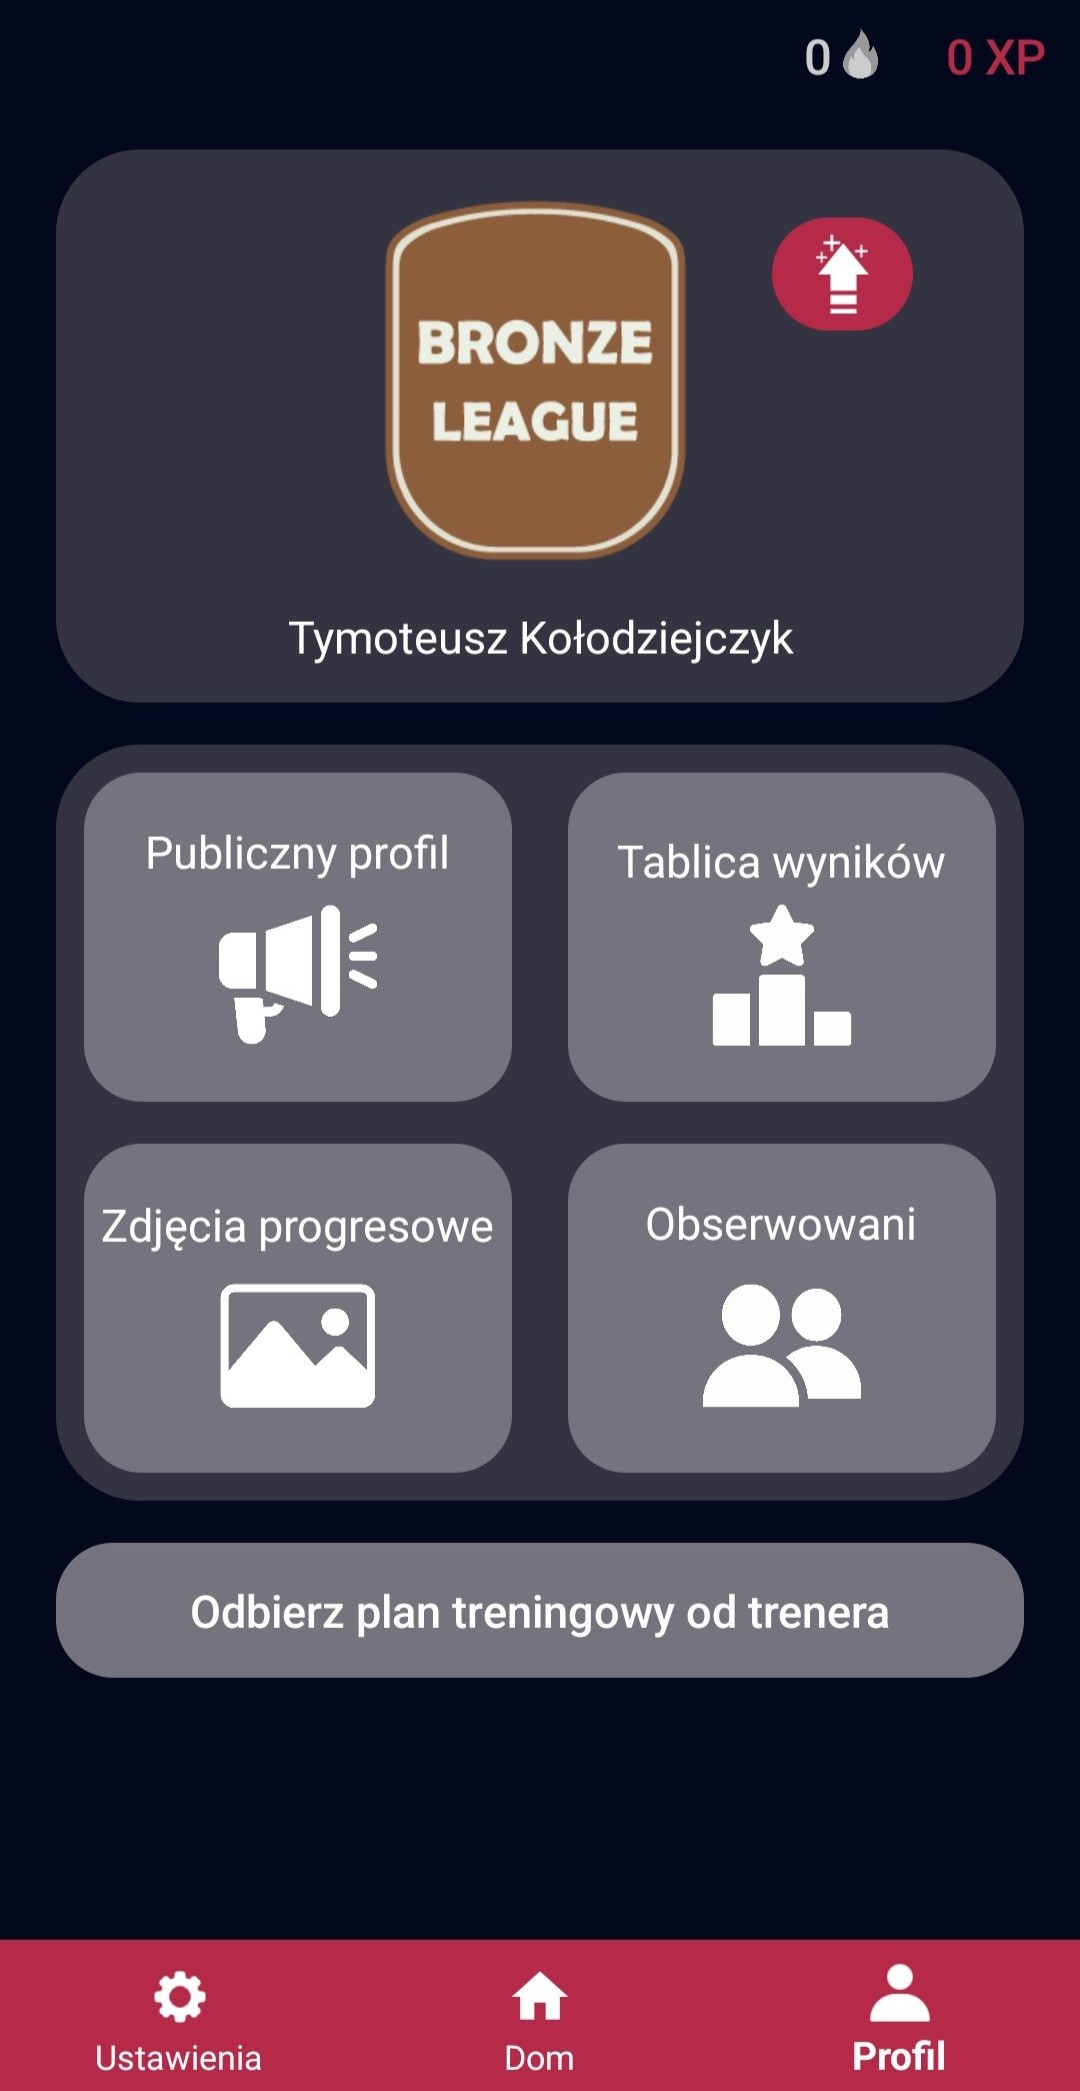
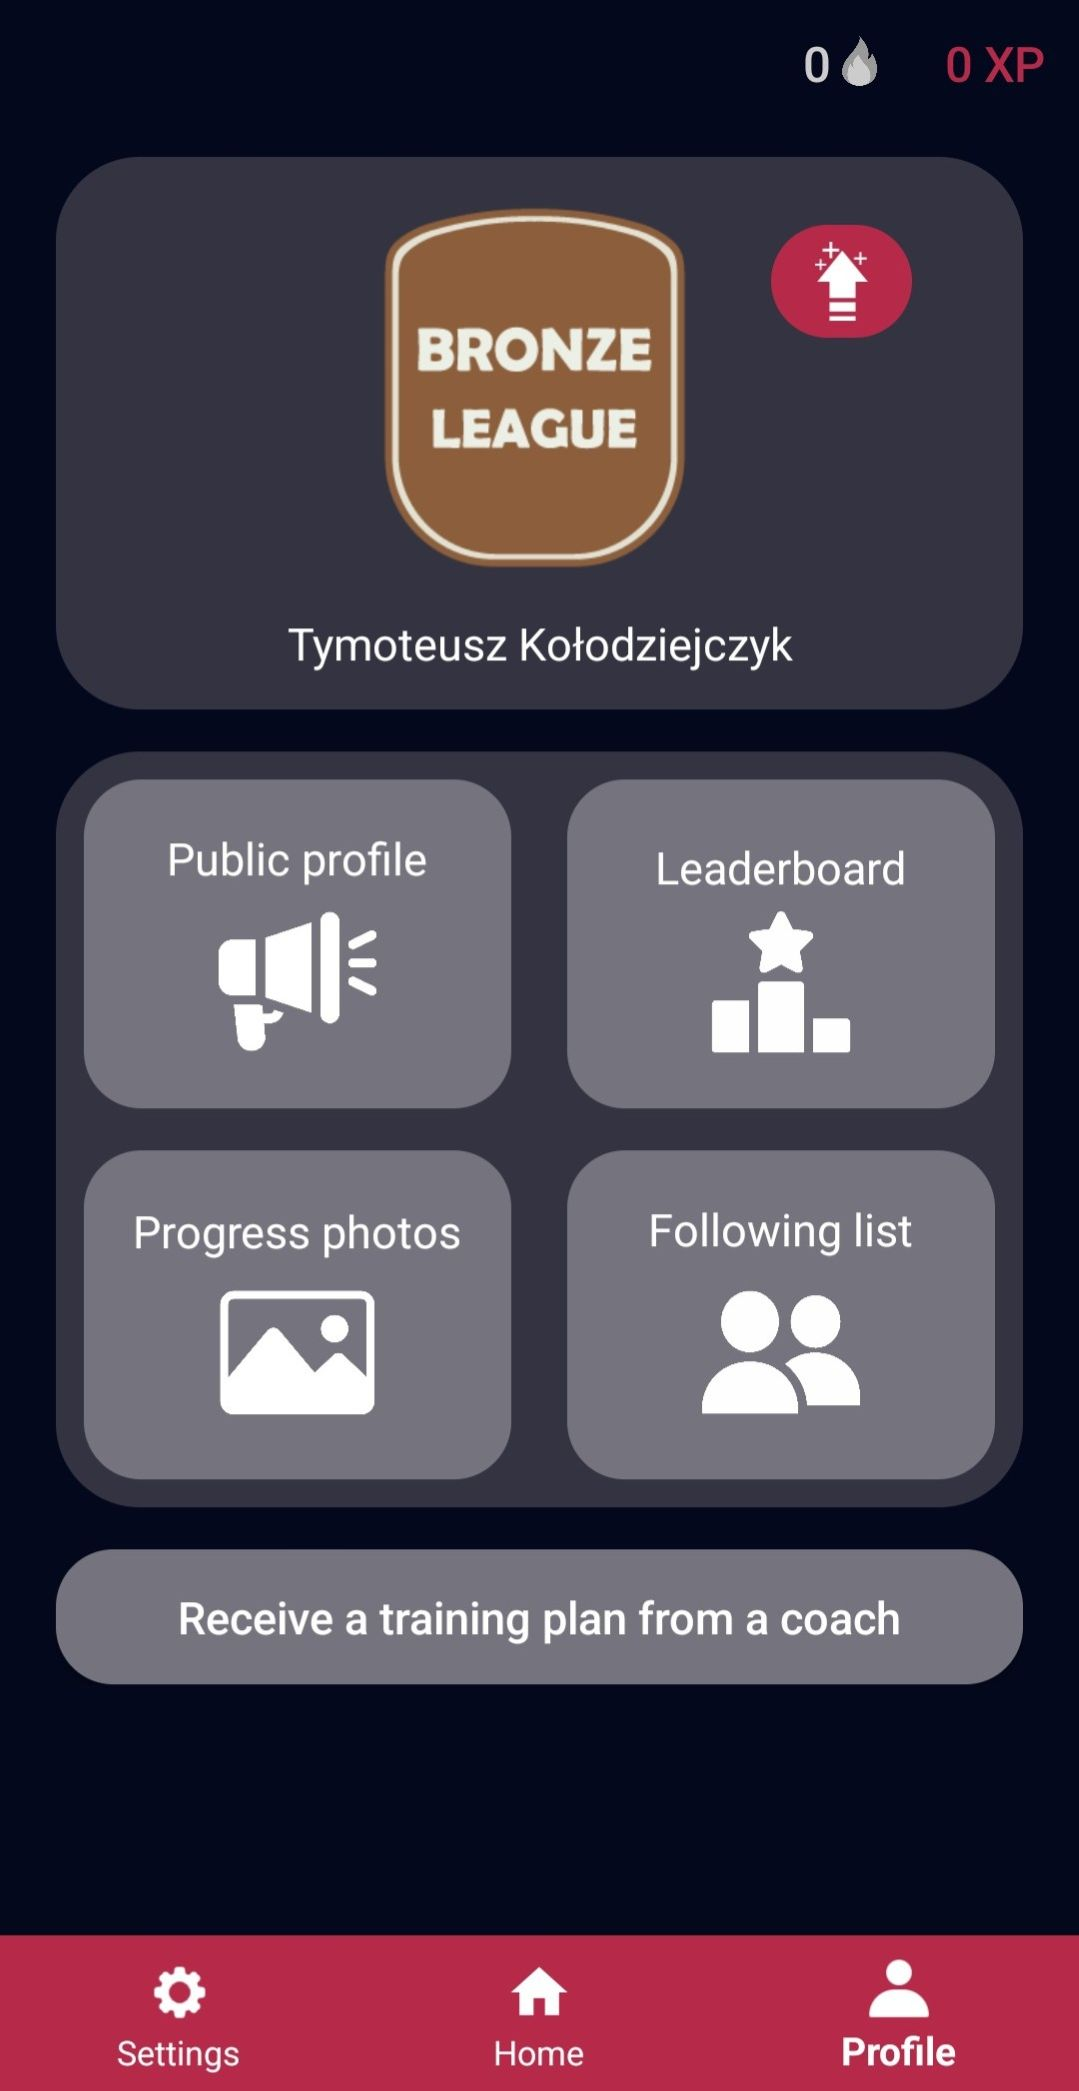
Update content

diff --git a/programming-basics.html b/programming-basics.html
@@ -21,6 +21,9 @@
         gtag('js', new Date());
         gtag('config', 'G-D76ZFDYLCY');
     </script>
+    <style>
+        @media (min-width: 1200px) {#bigo {width: 60%;}}
+    </style>
 </head>
 
 <body id="page-top">
@@ -106,12 +109,14 @@
                                         <li><b>Dynamically typed languages:</b> These languages, like Python and JavaScript, determine variable types at runtime. They offer more flexibility and reduce the need for explicit type declarations but may lead to unexpected errors during execution.</li>
                                     </ul>
                                                                     
-                                    <h2>Types of programming paradigms</h2>
+                                    <h2>Basic programming paradigms</h2>
                                     <p class="podpis">Programming paradigms define different approaches to problem-solving in programming:</p>
                                     <ul>
                                         <li><b>Procedural programming:</b> Focuses on a sequence of instructions and uses functions to break down tasks.</li>
                                         <li><b>Functional programming:</b> Treats computation as the evaluation of mathematical functions and avoids changing state or mutable data.</li>
                                         <li><b>Object-oriented programming:</b> Models real-world entities as objects that encapsulate data and behavior.</li>
+                                        <li><b>Logic programming:</b> Solves problems by defining facts and rules, allowing the system to infer solutions automatically.</li>
+                                        <li><b>Event-driven programming:</b> Organizes program execution around events such as user actions, sensor input, or messages.</li>
                                     </ul>
                                 
                                     <h2>Alphabet VS syntax VS semantics VS lexis</h2>
@@ -182,7 +187,7 @@ active: true
                             
                                     <p><b>Time complexity</b> measures how the execution time of an algorithm changes with the size of the input. It helps estimate how fast an algorithm runs, usually expressed using Big O notation, such as O(1), O(n), O(log n), or O(n<sup>2</sup>). It is crucial for optimizing performance, especially with large datasets.</p>
 
-                                    <img src="files/courses/big_o_plot.png" alt="Window" class="img-fluid">
+                                    <img src="files/courses/big_o_plot.png" alt="Window" id="bigo" class="img-fluid">
 
                                     <p><b>Space complexity</b> measures how much memory an algorithm uses relative to the input size. It includes memory for variables, data structures, and function call stacks. Analyzing space complexity helps ensure that programs run efficiently without exhausting system memory.</p>
 
@@ -194,6 +199,7 @@ active: true
                                         <li><b>API</b> - Application Programming Interface, a set of rules and protocols that allows different software applications to communicate with each other. It defines the methods and data formats that programs can use to request and exchange information.</li>                                 
                                         <li><b>API key</b> - a unique identifier used to authenticate and authorize access to an API, ensuring that only authorized users or systems can interact with it.</li>
                                         <li><b>API gateway</b> - a server that acts as an intermediary between clients and backend services, managing API requests, authentication, rate limiting, and routing to ensure secure and efficient communication between systems.</li>
+                                        <li><b>API middleware</b> - software that sits between an application and an API, processing API requests and responses before they reach their destination while also handling tasks such as authentication, logging, validation, caching, and data transformation.</li>
                                         <li><b>URI</b> - Uniform Resource Identifier, a general term used to identify a resource. A URI can locate a resource (URL), name it (URN), or do both.</li>
                                         <li><b>URL</b> - Uniform Resource Locator, a specific type of URI that provides the address used to locate a resource on the Internet. It includes the protocol (HTTP, HTTPS), domain, and path.</li>
                                         <li><b>URN</b> - Uniform Resource Name, a type of URI that names a resource uniquely without necessarily providing its location. For example, "urn:isbn:0451450523" uniquely identifies a book by its ISBN.</li>                                        

diff --git a/redis.html b/redis.html
@@ -128,6 +128,34 @@ r.<span class="command">hset</span>(<span class="text">"user:2"</span>, <span cl
 user <span class="sign">=</span> r.<span class="command">hgetall</span>(<span class="text">"user:2"</span>) <span class="comment"># retrieving all fields and their values from the hash</span>
 <span class="command">print</span>(user)
                                     </code></pre>
+
+                                    <h3>Java Spring Boot implementation</h3>
+
+                                    <p>Spring is a Java framework for building web, enterprise, and backend applications. Spring Boot is an extension of Spring that simplifies building and running Spring applications through automatic configuration.</p>
+
+                                    <p>Redis can be used in Spring Boot through the <code>Spring Data Redis</code> library. Instead of communicating with the Redis server directly, applications typically use the <code>RedisTemplate</code> class, which provides convenient methods for performing Redis operations. Spring Boot automatically configures the connection to the Redis server and, by default, uses the <code>Lettuce</code> client.</p>
+
+                                    <pre class="wp-block-csstricks-code-block code-example" data-line="" style="color: #EFEEEE;"><code markup="tt">
+<span class="command">@Service</span>
+<span class="function">public class</span> UserService <span class="sign">{</span>
+    <span class="function">private final RedisTemplate</span><span class="sign">&lt;</span><span class="function">String</span>, <span class="function">String</span><span class="sign">&gt;</span> redisTemplate<span class="sign">;</span>
+
+    <span class="function">public</span> UserService(<span class="function">RedisTemplate</span><span class="sign">&lt;</span><span class="function">String</span>, <span class="function">String</span><span class="sign">&gt;</span> redisTemplate) <span class="sign">{</span>
+        <span class="function">this</span>.redisTemplate <span class="sign">=</span> redisTemplate<span class="sign">;</span>
+    <span class="sign">}</span>
+
+    <span class="function">public void</span> saveUser() <span class="sign">{</span>
+        redisTemplate.<span class="command">opsForValue</span>().<span class="command">set</span>(<span class="text">"user:1:name"</span>, <span class="text">"Alice"</span>)<span class="sign">;</span>
+        redisTemplate.<span class="command">opsForValue</span>().<span class="command">set</span>(<span class="text">"user:1:age"</span>, <span class="text">"30"</span>)<span class="sign">;</span>
+    <span class="sign">}</span>
+
+    <span class="function">public void</span> printUser() <span class="sign">{</span>
+        <span class="function">String</span> name <span class="sign">=</span> redisTemplate.<span class="command">opsForValue</span>().<span class="command">get</span>(<span class="text">"user:1:name"</span>)<span class="sign">;</span>
+        <span class="function">String</span> age <span class="sign">=</span> redisTemplate.<span class="command">opsForValue</span>().<span class="command">get</span>(<span class="text">"user:1:age"</span>)<span class="sign">;</span>
+        <span class="function">System</span>.<span class="command">out</span>.<span class="command">println</span>(name <span class="sign">+</span> <span class="text">" "</span> <span class="sign">+</span> age)<span class="sign">;</span>
+    <span class="sign">}</span>
+<span class="sign">}</span>
+                                    </code></pre>
                                 </div>
                             </div>
                         </div>

diff --git a/muscleup.html b/muscleup.html
@@ -18,7 +18,7 @@
         gtag('js', new Date());
         gtag('config', 'G-D76ZFDYLCY');
     </script>
-<style>
+    <style>
         * {
             margin: 0;
             padding: 0;
@@ -285,7 +285,7 @@
             <div class="section">
                 <div class="about-content">
                     <h2>About The App</h2>
-                    <p>Muscle Up is a fitness app that uses AI to analyse workouts in real time through a camera to count reps for you. It combines the best tools from leading platforms, including <b>pre-designed workout plans</b> that adjust to your schedule, performance statistics, a user <b>leaderboard</b>, and a variety of other unique elements. Whether you're a beginner or an advanced athlete, Muscle Up brings the most powerful tools together in one intuitive app, helping you train smarter, stay motivated, and achieve results faster. I am proud to have built this app on my own, before AI coding agents became widely available.</p>
+                    <p>Muscle Up is a fitness app that uses AI to analyse workouts in real time through a camera to count reps for you. It combines the best tools from leading platforms, including <b>pre-designed workout plans</b> that adjust to your schedule, performance statistics, a user <b>leaderboard</b>, and a variety of other unique elements. Whether you're a beginner or an advanced athlete, Muscle Up brings the most powerful tools together in one intuitive app, helping you train smarter, stay motivated, and achieve results faster. I am proud to have built this app on my own, without any AI coding agents.</p>
                 </div>
             </div>
 

diff --git a/about-me.html b/about-me.html
@@ -243,6 +243,7 @@
                                     <img src="files/skill_logos/java-icon.png" alt="Java" title="Java" class="social">
                                     <img src="files/skill_logos/kotlin-icon.png" alt="Kotlin" title="Kotlin" class="social">
                                     <img src="files/skill_logos/react-icon.png" alt="React" title="React Native" class="social">
+                                    <img src="files/skill_logos/typescript-icon.png" alt="React" title="React Native" class="social">
                                     
                                     <hr class="sidebar-divider" style="margin-bottom: 4px; height: 1px; background-color: lightgray; border: none;">
                                     <div class="skills-divider">IoT</div>

diff --git a/databases.html b/databases.html
@@ -117,7 +117,6 @@
                                         <li><a href="sqlite.html" class="linkh">Introduction to SQLite</a></li>
                                         <li><a href="postgresql.html" class="linkh">Introduction to PostgreSQL</a></li>
                                         <li><a href="redis.html" class="linkh">Introduction to Redis</a></li>
-                                        <li><a href="firebase.html" class="linkh">Introduction to Firebase</a></li>
                                     </ol>
                                 </div>
                             </div>
